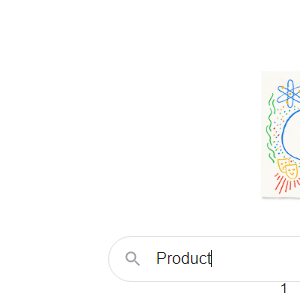
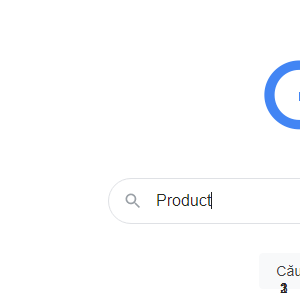
Add video images

diff --git a/index.js b/index.js
@@ -1,39 +1,79 @@
 const puppeteer = require('puppeteer');
-let counter = 1;
-const assertFrames = async (counter) => {
-  const divFrame = document.createElement('span');
-  const input = document.querySelector('input[type="text"]')
-  input.value += 'Pro'
+const { spawn } = require('child_process');
 
-  divFrame.setAttribute('style', 'position: absolute; top: 280px; left: 280px');
-  divFrame.innerHTML = counter;
-  await body.appendChild(divFrame);
-}
 
 (async () => {
   const browser = await puppeteer.launch();
   const page = await browser.newPage();
   await page.goto('https://google.com');
   const bodyHandle = await page.$('body');
-  
-  await page.evaluate((body) => {
-    
-    assertFrames(1);
-    return Promise.resolve(body)}, bodyHandle);
-
-  await page.screenshot({ path: './assets/example1.png', clip: { x: 0, y: 0, height: 300, width: 300 } });
-
-  counter++;
+  let screenPusher;
+  let screenArray = [];
 
   await page.evaluate((body) => {
-      
+    const divFrame = document.createElement('span');
     const input = document.querySelector('input[type="text"]')
-    input.value += 'duct'
+    input.value += '';
+
+    divFrame.setAttribute('style', 'position: absolute; top: 280px; left: 280px');
+    divFrame.innerHTML = 1;
+    body.appendChild(divFrame);
+    return Promise.resolve(body)
+  }, bodyHandle);
+
+  screenPusher = await page.screenshot({ path: './assets/example.png', clip: { x: 0, y: 0, height: 300, width: 300 }});
+  screenArray.push(screenPusher);
+
+  await page.evaluate((body) => {
+    const divFrame = document.createElement('span');
+    const input = document.querySelector('input[type="text"]')
+    input.value += 'Pro';
+
+    divFrame.setAttribute('style', 'position: absolute; top: 280px; left: 280px');
+    divFrame.innerHTML = 2;
+    body.appendChild(divFrame);
+    return Promise.resolve(body)
+  }, bodyHandle);
+
+  screenPusher = await page.screenshot({ path: './assets/example1.png', clip: { x: 0, y: 0, height: 300, width: 300 }});
+  screenArray.push(screenPusher);
+
+  await page.evaluate((body) => {
+    const divFrame = document.createElement('span');
+    const input = document.querySelector('input[type="text"]')
+    input.value += 'duct';
+
+    divFrame.setAttribute('style', 'position: absolute; top: 280px; left: 280px');
+    divFrame.innerHTML = 3;
+    body.appendChild(divFrame);
+    return Promise.resolve(body)
+  }, bodyHandle);
+
+  screenPusher = await page.screenshot({ path: './assets/example2.png', clip: { x: 0, y: 0, height: 300, width: 300 } });
+  screenArray.push(screenPusher);
+
+  let ffmpeg = spawn("ffmpeg", [
+    "-video_size", "300x300",
+    "-loglevel", "debug",
+    '-y',
+    "-framerate", "60",
+    "-f", "image2pipe", 
+    "-pix_fmt", "yuv420p", 
+    "-vcodec", "png", 
+    '-r', '30', 
+    "-i", "-",
+    '-vcodec', 'libx264',
+    '-qscale', '0',
+    'out.mp4'
+  ], {
+      stdio: ["pipe", process.stdout, process.stderr]
   });
 
-  await page.screenshot({ path: './assets/example2.png', clip: { x: 0, y: 0, height: 300, width: 300 } });
+  for (let i = 0; i < screenArray.length; i++) {
+      ffmpeg.stdin.write(screenArray[i]);
+  }
 
-  counter++;
+  // ffmpeg.stderr.pipe(process.stdout)
 
   await browser.close();
 })();
